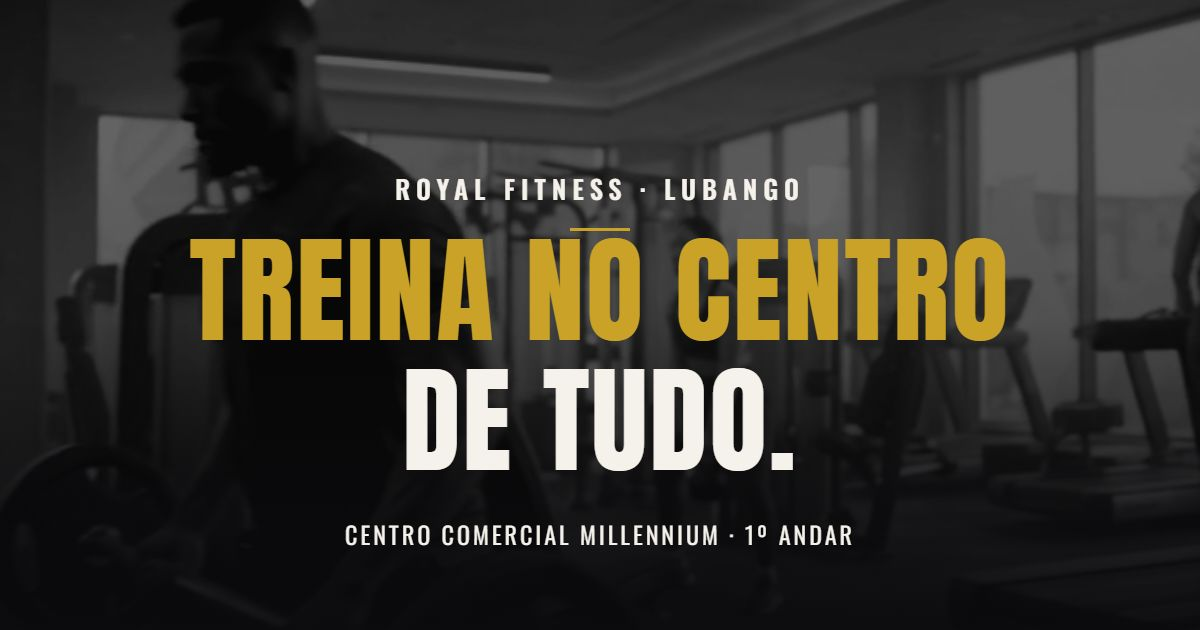
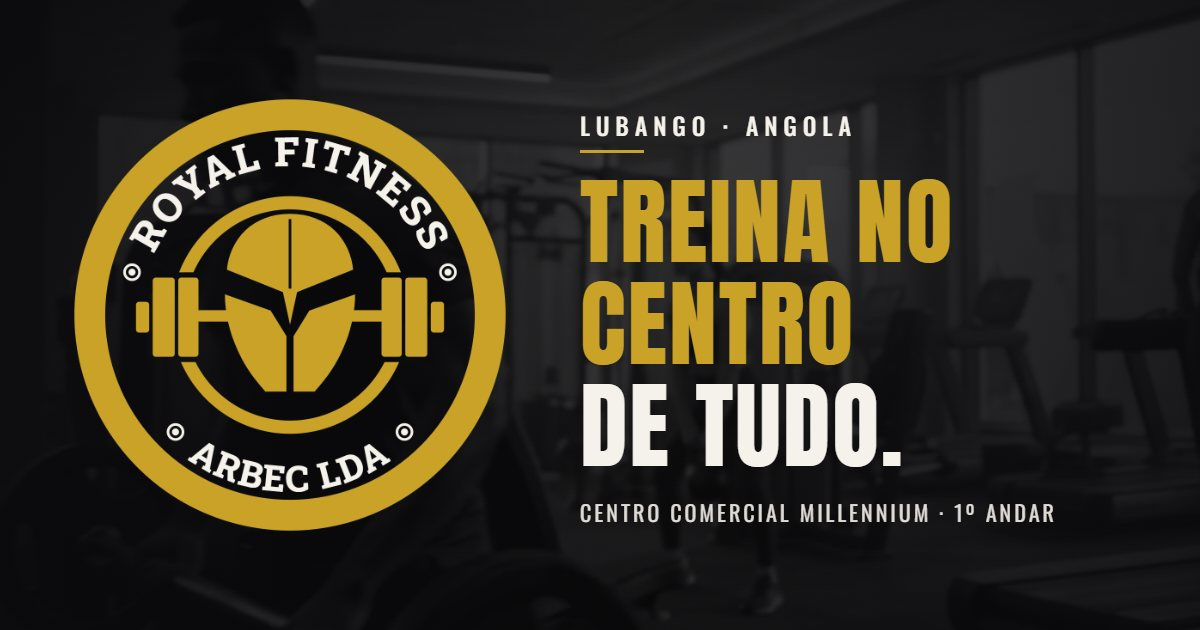
Logótipo oficial no cabeçalho, rodapé, ícones e imagem de partilha
O logótipo foi redesenhado em vetor a partir da estampa da t-shirt e
exportado em PNG transparente nas versões original, dourada e vermelha.
O site usa a dourada; o separador e a app usam só o emblema; a imagem de
partilha e os dados estruturados levam o logótipo e o nome Arbec Lda.

diff --git a/assets/img/logo/logotipo-fonte.html b/assets/img/logo/logotipo-fonte.html
@@ -1,0 +1,112 @@
+<!doctype html>
+<html>
+<head>
+<meta charset="utf-8">
+<title>Logótipo Royal Fitness — fonte vetorial</title>
+<!-- Desenho em vetor do logótipo (redesenhado a partir da estampa da t-shirt).
+     Abre este ficheiro no browser para ver as três versões.
+     Os PNG em assets/img/logo foram exportados daqui com fundo transparente. -->
+<link rel="stylesheet" href="https://fonts.googleapis.com/css2?family=Roboto+Slab:wght@800&display=block">
+<style>
+  html, body { margin: 0; background: transparent; }
+  #palco { width: 1000px; height: 1000px; }
+  body.ver { background: #0B0B0D; padding: 24px; font-family: sans-serif; color: #F5F2EC; }
+  body.ver #palco { width: min(90vw, 640px); height: auto; }
+  body.ver svg { width: 100%; height: auto; }
+  .versoes { display: flex; gap: 8px; margin-bottom: 16px; }
+  .versoes button { padding: 8px 14px; cursor: pointer; }
+  svg { display: block; }
+</style>
+</head>
+<body>
+<div class="versoes" hidden><button data-v="original">Original</button><button data-v="dourado">Dourado</button><button data-v="vermelho">Vermelho</button></div>
+<div id="palco"></div>
+<script>
+// Logótipo do Royal Fitness redesenhado em vetor (viewBox 1000 x 1000).
+const VARIANTES = {
+  original: { emblema: '#D2232A', texto: '#141414', disco: '#FFFFFF', fundo: null },
+  dourado:  { emblema: '#C9A227', texto: '#F5F2EC', disco: null, fundo: null },
+  vermelho: { emblema: '#E0262D', texto: '#F5F2EC', disco: null, fundo: null }
+};
+
+function svgLogo(v, { comTexto = true, fundoQuadrado = null, recorte = null, semAnelExterior = false } = {}) {
+  const c = VARIANTES[v];
+  const barbell = [
+    // [x, y, largura, altura] — discos e pontas da barra
+    [150, 470, 30, 70], [188, 415, 50, 180], [246, 415, 46, 180],
+    [708, 415, 46, 180], [762, 415, 50, 180], [820, 470, 30, 70]
+  ];
+  const discos = barbell.map(([x, y, w, h]) => `<rect x="${x}" y="${y}" width="${w}" height="${h}" rx="7"/>`).join('');
+  const recorteDiscos = barbell.map(([x, y, w, h]) => `<rect x="${x - 12}" y="${y - 12}" width="${w + 24}" height="${h + 24}" rx="14"/>`).join('');
+  // Capacete espartano (coríntio) de frente: cúpula, olhos em cunha que cortam a lateral,
+  // protetor do nariz e faces que afunilam até ao bico, com a fenda ao centro
+  const capacete = 'M500,270 C584,270 638,326 644,402 L648,452 C648,522 620,600 568,660 L556,674 L444,674 L432,660 C380,600 352,522 352,452 L356,402 C362,326 416,270 500,270 Z';
+  // Um só recorte: olhos em cunha que descem em V, contornam o nariz afunilado
+  // e seguem pela fenda entre as faces até ao fundo
+  const visor = 'M334,388 L484,448 L500,522 L516,448 L666,388 L662,448 L544,490 L508,548 L508,700 L492,700 L492,548 L456,490 L338,448 Z';
+  const textos = comTexto ? `
+    <path id="arcoTopo" d="M162,500 A338,338 0 0 1 838,500" fill="none"/>
+    <path id="arcoBase" d="M98,500 A402,402 0 0 0 902,500" fill="none"/>
+    <g fill="${c.texto}" font-family="'Roboto Slab', serif" font-weight="800">
+      <text id="tTopo" font-size="92" letter-spacing="4"><textPath href="#arcoTopo" startOffset="50%" text-anchor="middle">ROYAL FITNESS</textPath></text>
+      <text id="tBase" font-size="82" letter-spacing="4"><textPath href="#arcoBase" startOffset="50%" text-anchor="middle">ARBEC LDA</textPath></text>
+    </g>
+    <g id="pontos" fill="none" stroke="${c.texto}" stroke-width="6"></g>` : '';
+  const [rx0, ry0, rw, rh] = recorte || [0, 0, 1000, 1000];
+  return `<svg xmlns="http://www.w3.org/2000/svg" viewBox="${rx0} ${ry0} ${rw} ${rh}" width="1000" height="1000">
+    <defs>
+      <mask id="mAnel"><rect width="1000" height="1000" fill="#fff"/><g fill="#000">${recorteDiscos}</g></mask>
+      <mask id="mCapacete"><path d="${capacete}" fill="#fff"/><path d="${visor}" fill="#000"/><rect x="497" y="282" width="6" height="158" fill="#000"/></mask>
+    </defs>
+    ${fundoQuadrado ? `<rect x="${rx0}" y="${ry0}" width="${rw}" height="${rh}" rx="${fundoQuadrado.raio}" fill="${fundoQuadrado.cor}"/>` : ''}
+    ${c.disco ? `<circle cx="500" cy="500" r="424" fill="${c.disco}"/>` : ''}
+    ${semAnelExterior ? '' : `<circle cx="500" cy="500" r="455" fill="none" stroke="${c.emblema}" stroke-width="70"/>`}
+    <circle cx="500" cy="500" r="255" fill="none" stroke="${c.emblema}" stroke-width="30" mask="url(#mAnel)"/>
+    <g fill="${c.emblema}">
+      <rect x="290" y="489" width="92" height="26" rx="4"/>
+      <rect x="618" y="489" width="92" height="26" rx="4"/>
+      ${discos}
+      <rect x="0" y="0" width="1000" height="1000" mask="url(#mCapacete)"/>
+    </g>
+    ${textos}
+  </svg>`;
+}
+
+// Os pontos ficam logo a seguir às pontas dos textos, medidos depois de a fonte chegar
+function porPontos() {
+  const g = document.getElementById('pontos');
+  if (!g) return;
+  const topo = document.getElementById('tTopo').getComputedTextLength();
+  const base = document.getElementById('tBase').getComputedTextLength();
+  const r = 372;
+  const meioTopo = (topo / 2) / 338 * 180 / Math.PI + 9;
+  const meioBase = (base / 2) / 402 * 180 / Math.PI + 9;
+  const angulos = [270 - meioTopo, 270 + meioTopo, 90 - meioBase, 90 + meioBase];
+  g.innerHTML = angulos.map((a) => {
+    const x = 500 + r * Math.cos(a * Math.PI / 180), y = 500 + r * Math.sin(a * Math.PI / 180);
+    return `<circle cx="${x.toFixed(1)}" cy="${y.toFixed(1)}" r="17"/><circle cx="${x.toFixed(1)}" cy="${y.toFixed(1)}" r="8" fill="currentColor" stroke="none"/>`;
+  }).join('');
+  g.setAttribute('color', g.getAttribute('stroke'));
+}
+
+window.desenhar = async (variante, opcoes = {}) => {
+  await document.fonts.load("800 92px 'Roboto Slab'");
+  await document.fonts.ready;
+  document.getElementById('palco').innerHTML = svgLogo(variante, opcoes);
+  porPontos();
+  return {
+    fonte: document.fonts.check("800 92px 'Roboto Slab'"),
+    svg: document.getElementById('palco').innerHTML
+  };
+};
+// Aberto à mão (sem o script de exportação): mostra as versões com botões
+if (!navigator.webdriver) {
+  document.body.classList.add('ver');
+  const barra = document.querySelector('.versoes');
+  barra.hidden = false;
+  barra.addEventListener('click', (e) => { const v = e.target.dataset.v; if (v) desenhar(v); });
+  desenhar('original');
+}
+</script>
+</body>
+</html>

diff --git a/index.html b/index.html
@@ -63,7 +63,8 @@
     "description": "Ginásio dentro do Centro Comercial Millennium, no Lubango, com equipamento completo, aulas de grupo e acompanhamento.",
     "url": "https://www.royalfitness-lubango.com/",
     "image": "https://www.royalfitness-lubango.com/assets/img/og-image.jpg",
-    "logo": "https://www.royalfitness-lubango.com/assets/icons/icon-512.png",
+    "logo": "https://www.royalfitness-lubango.com/assets/img/logo/royal-fitness-original-512.png",
+    "legalName": "Arbec Lda",
     "telephone": "+244995614652",
     "email": "royalfitness-lubango@gmail.com",
     "address": {
@@ -103,11 +104,7 @@
   <header class="cabecalho">
     <div class="container cabecalho__barra">
       <a class="logo" href="#inicio">
-        <svg class="logo__marca" viewBox="0 0 64 64" aria-hidden="true" focusable="false">
-          <circle cx="32" cy="32" r="23" fill="none" stroke="currentColor" stroke-width="5"/>
-          <path d="M20.5 40.5V25.5l6.2 6.4L32 21.5l5.3 10.4 6.2-6.4v15z" fill="currentColor"/>
-          <rect x="20.5" y="42.5" width="23" height="3" fill="currentColor"/>
-        </svg>
+        <img class="logo__marca" src="assets/img/logo/royal-fitness-dourado-128.png" srcset="assets/img/logo/royal-fitness-dourado-128.png 128w, assets/img/logo/royal-fitness-dourado-256.png 256w, assets/img/logo/royal-fitness-dourado-512.png 512w" sizes="(min-width: 1024px) 60px, 48px" width="60" height="60" alt="" decoding="async">
         <span class="logo__texto">Royal<span class="sr-only"> </span><span>Fitness</span></span>
       </a>
 
@@ -948,11 +945,7 @@
     <div class="container rodape__grelha">
       <div class="rodape__marca">
         <a class="logo" href="#inicio">
-          <svg class="logo__marca" viewBox="0 0 64 64" aria-hidden="true" focusable="false">
-            <circle cx="32" cy="32" r="23" fill="none" stroke="currentColor" stroke-width="5"/>
-            <path d="M20.5 40.5V25.5l6.2 6.4L32 21.5l5.3 10.4 6.2-6.4v15z" fill="currentColor"/>
-            <rect x="20.5" y="42.5" width="23" height="3" fill="currentColor"/>
-          </svg>
+          <img class="logo__marca" src="assets/img/logo/royal-fitness-dourado-128.png" srcset="assets/img/logo/royal-fitness-dourado-128.png 128w, assets/img/logo/royal-fitness-dourado-256.png 256w, assets/img/logo/royal-fitness-dourado-512.png 512w" sizes="112px" width="60" height="60" alt="" loading="lazy" decoding="async">
           <span class="logo__texto">Royal<span class="sr-only"> </span><span>Fitness</span></span>
         </a>
         <p>O ginásio dentro do maior centro comercial do Lubango. Treina no centro de tudo.</p>
@@ -1029,7 +1022,7 @@
     </div>
 
     <div class="container rodape__base">
-      <p>© <span data-ano>2026</span> Royal Fitness. Todos os direitos reservados.</p>
+      <p>© <span data-ano>2026</span> Royal Fitness · Arbec Lda. Todos os direitos reservados.</p>
       <p>Desenvolvido por <strong>Vantech</strong></p>
     </div>
   </footer>

diff --git a/styles.css b/styles.css
@@ -310,9 +310,10 @@ section[id] { scroll-margin-top: var(--nav-h); }
   flex-shrink: 0;
 }
 .logo__marca {
-  width: 30px;
-  height: 30px;
-  color: var(--dourado);
+  flex-shrink: 0;
+  width: 48px;
+  height: 48px;
+  transition: width 0.8s var(--ease), height 0.8s var(--ease);
 }
 .logo__texto {
   font-family: var(--f-titulo);
@@ -324,7 +325,8 @@ section[id] { scroll-margin-top: var(--nav-h); }
 }
 .logo__texto span { color: var(--dourado); }
 @media (min-width: 1024px) {
-  .logo__marca { width: 36px; height: 36px; }
+  .logo__marca { width: 60px; height: 60px; }
+  .cabecalho--solido .logo__marca { width: 54px; height: 54px; }
   .logo__texto { font-size: 2rem; }
 }
 
@@ -1943,6 +1945,8 @@ footer[id] { scroll-margin-top: var(--nav-h); }
   gap: 44px;
   padding-block: 72px 48px;
 }
+.rodape__marca .logo { gap: 16px; }
+.rodape__marca .logo__marca { width: 96px; height: 96px; }
 .rodape__marca p {
   max-width: 30ch;
   margin-top: 18px;
